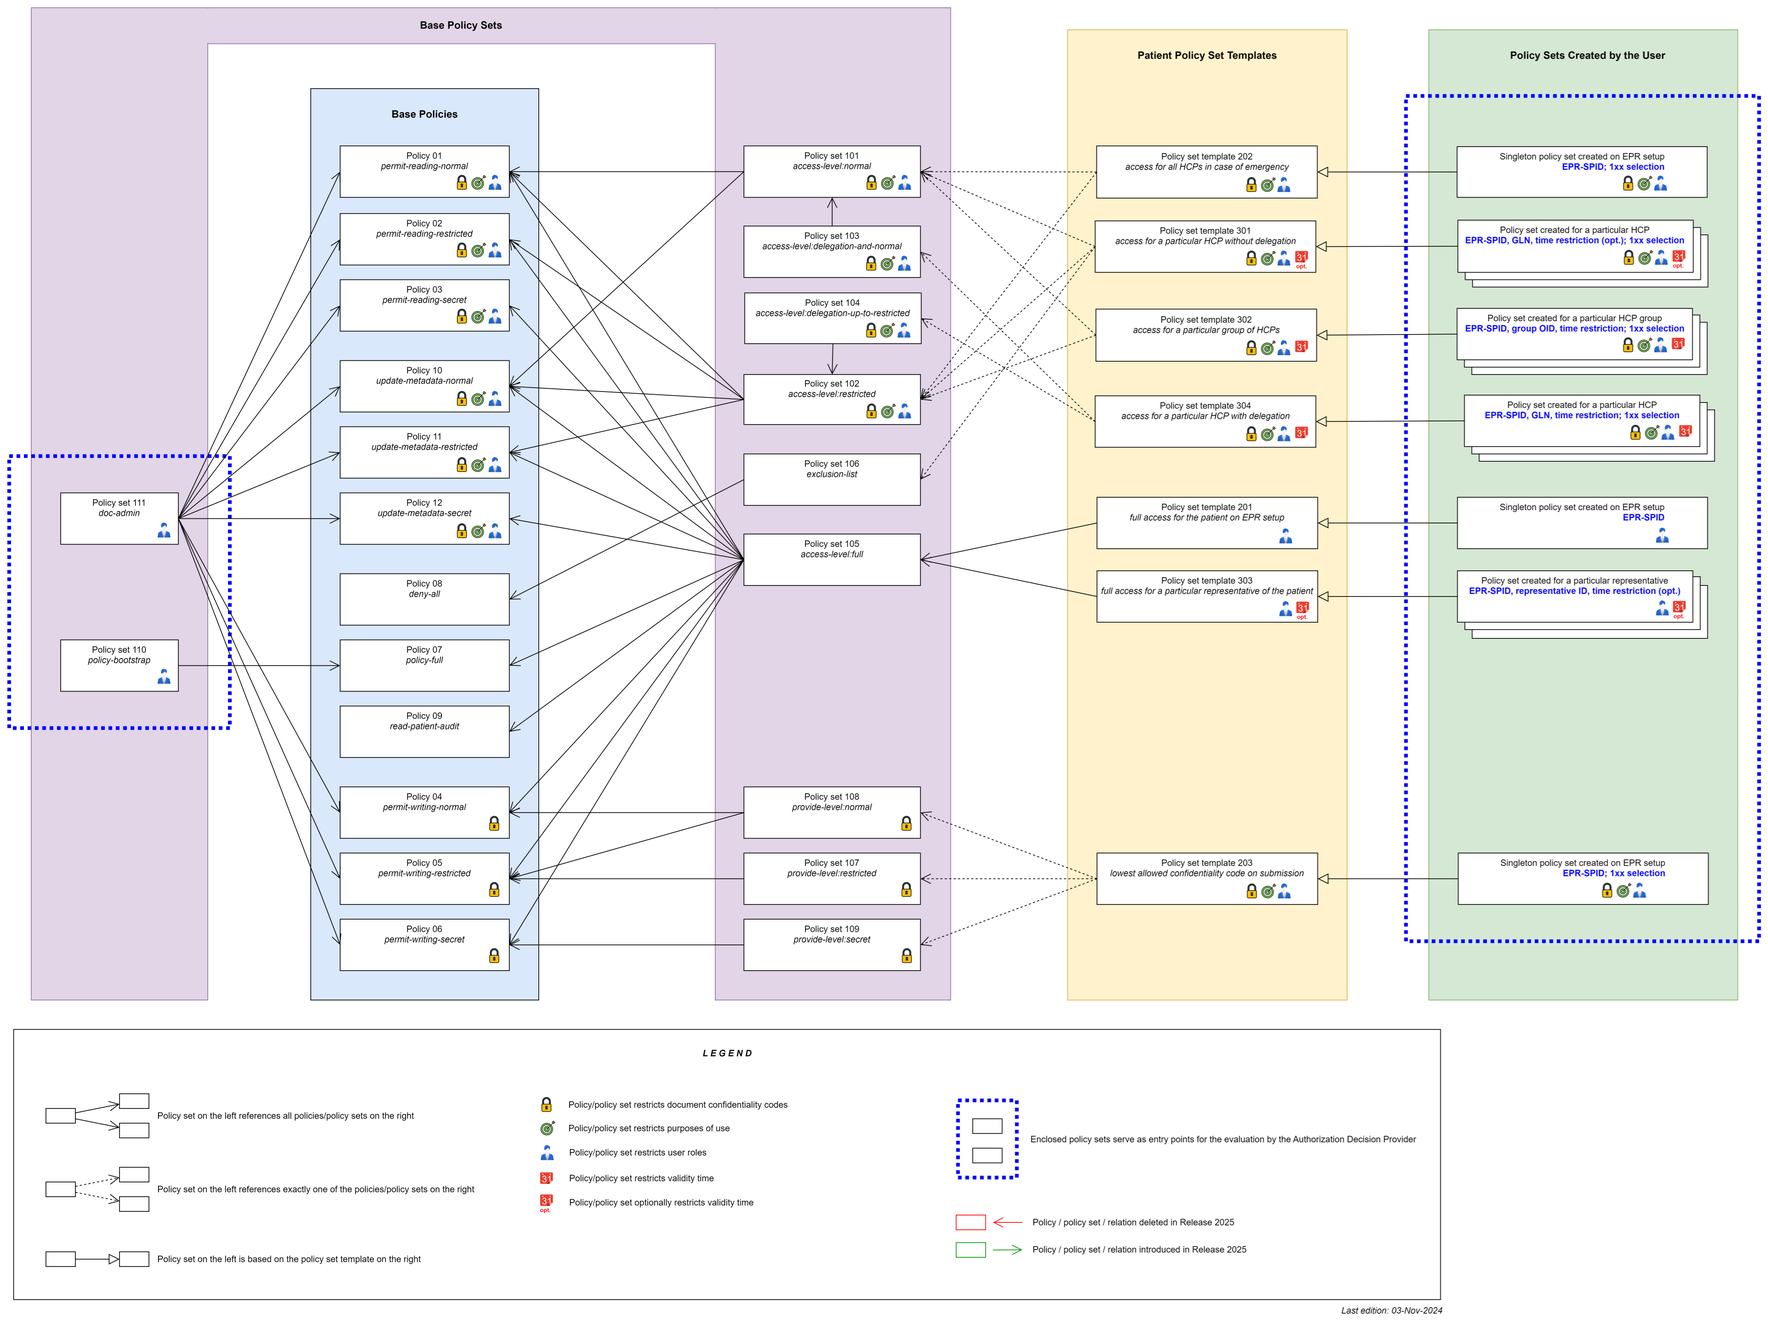
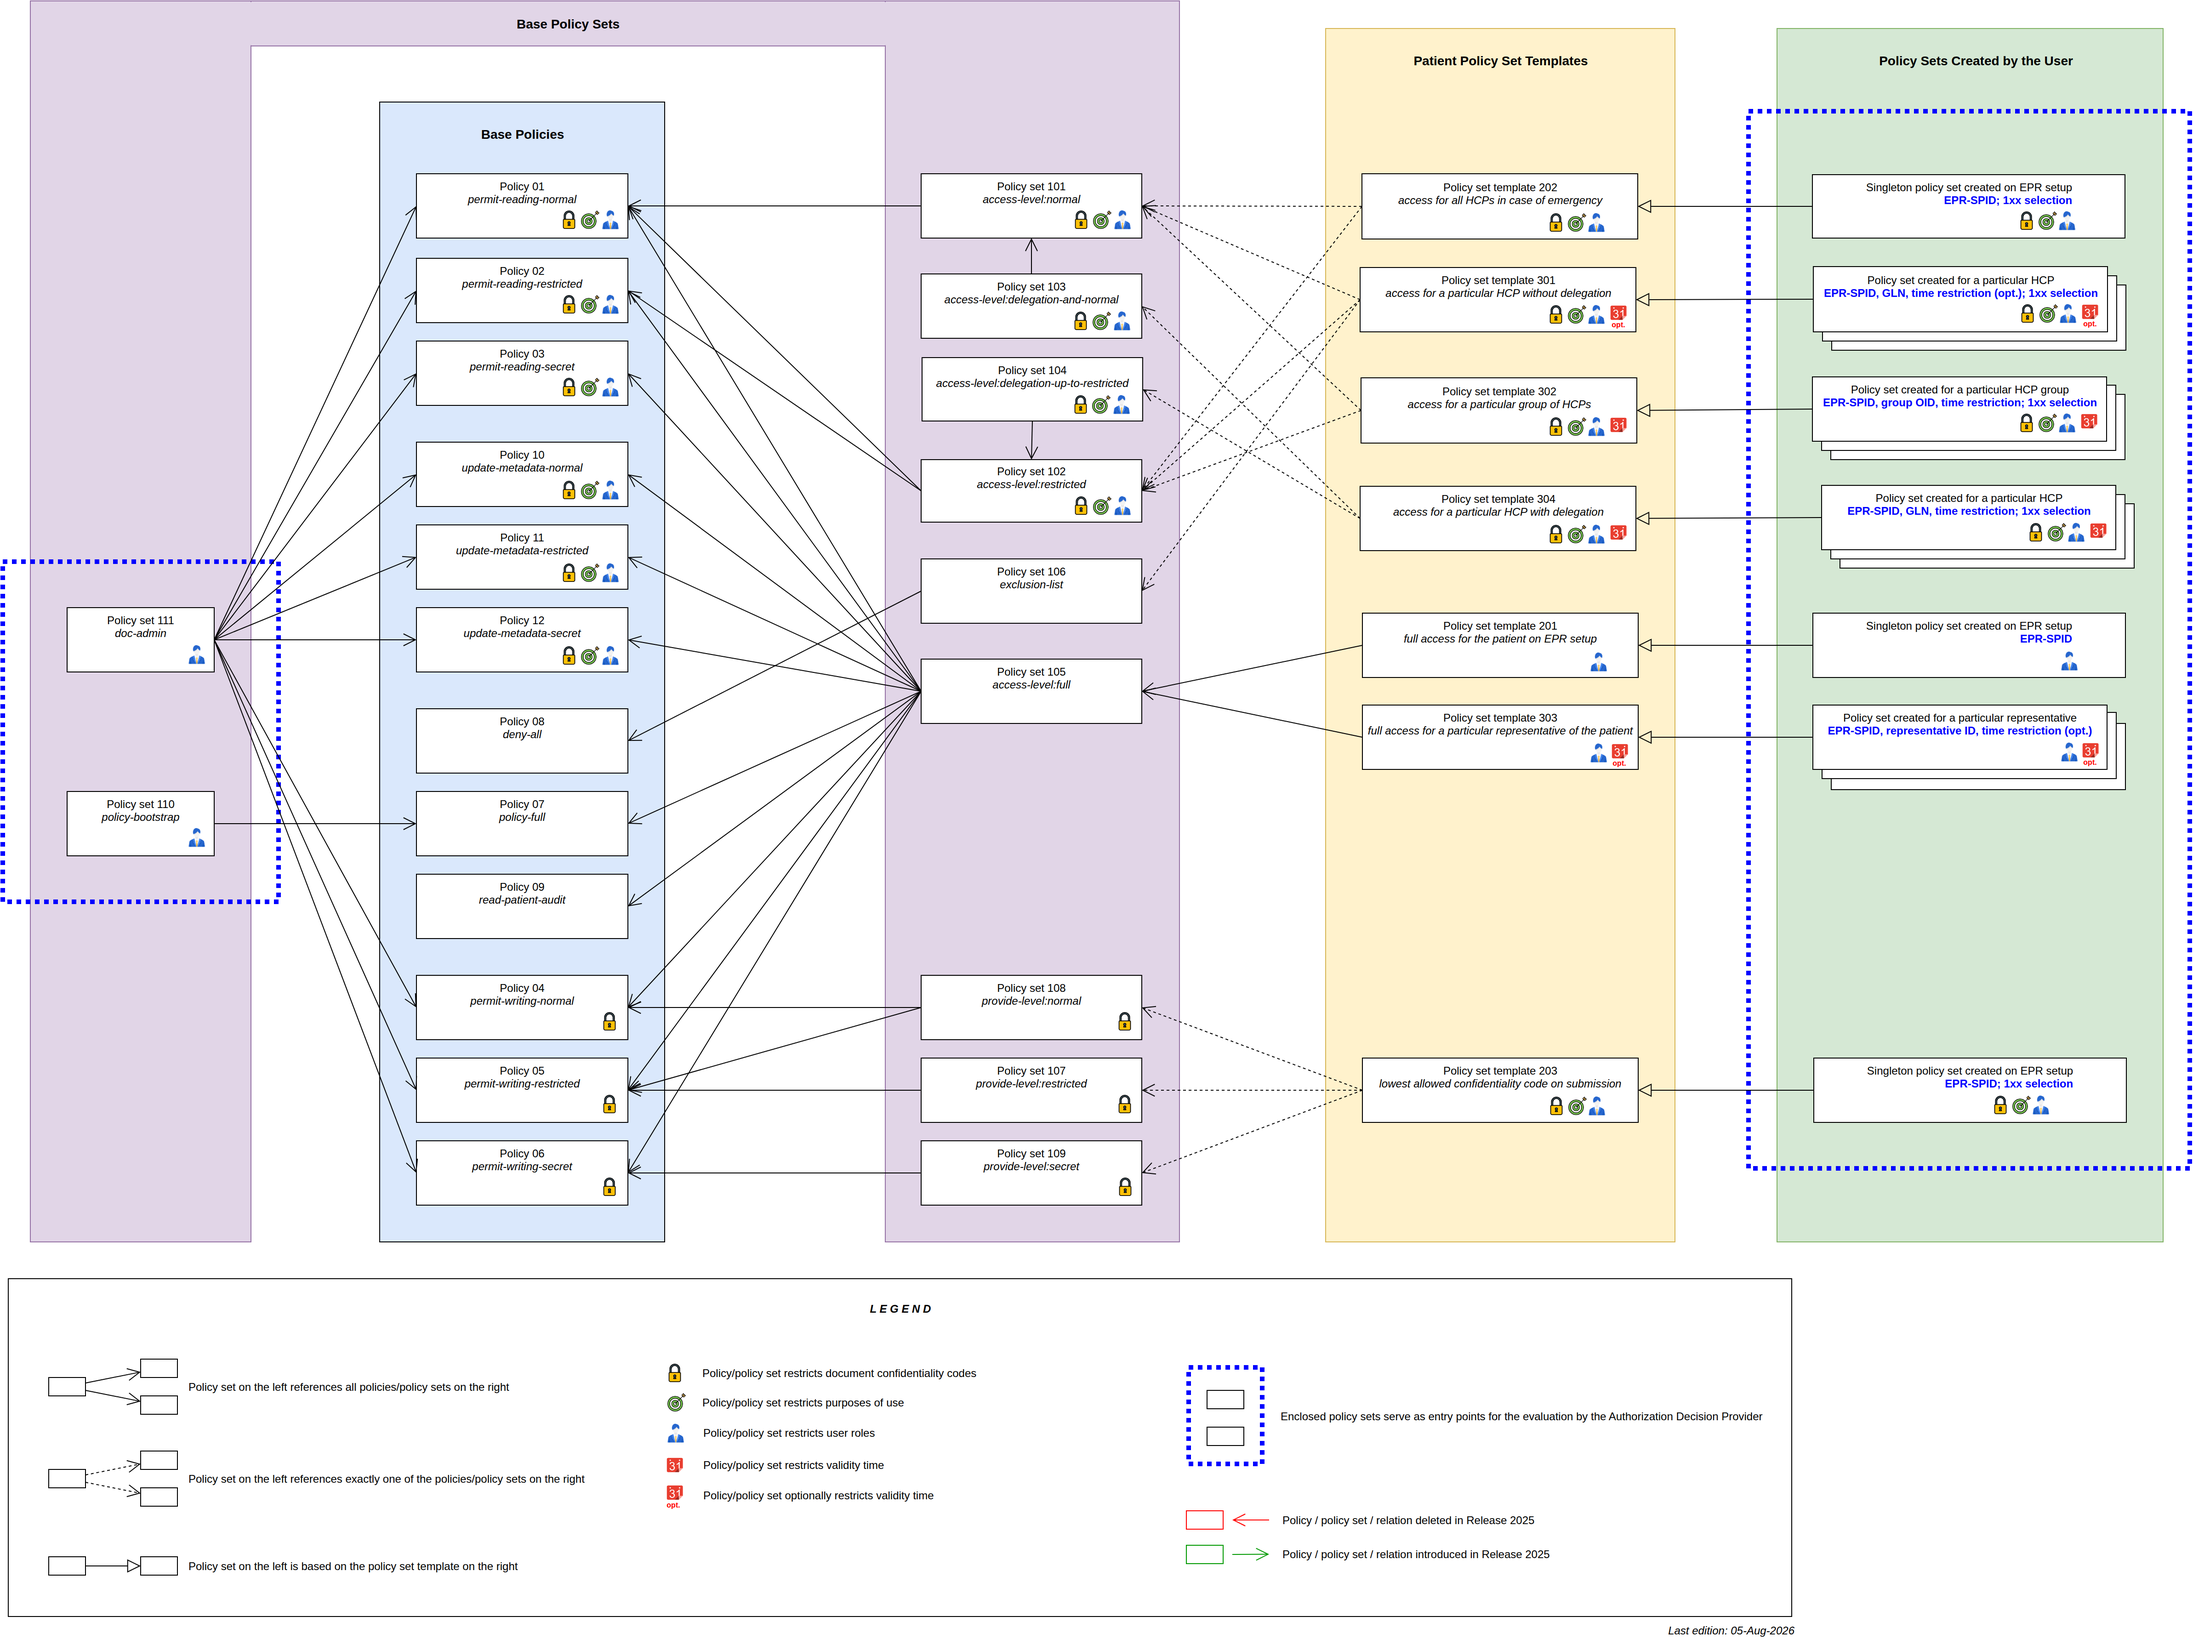
EHSEPDBEP-314: align docs with removal of metadata update for HCPs
2_Relations.md: policy set 101 now references only 01, policy set 102 only 01 and 02; effect texts of 101-104 no longer mention metadata update. policies.drawio: removed edges 101->10, 102->10 and 102->11, updated last-edition date. policies.png: re-exported from the updated drawio file.

diff --git a/docs/2_Relations.md b/docs/2_Relations.md
@@ -141,9 +141,8 @@ Notes:
 
 - File name: 101-base-policyset-access-normal.xml
 - Policy ID: `urn:e-health-suisse:2015:policies:access-level:normal`
-- Referenced policies / policy sets: 01, 10
-- Effect of referenced policies / policy sets: Permit to enquire document metadata and contents, and to modify document
-  metadata
+- Referenced policies / policy sets: 01
+- Effect of referenced policies / policy sets: Permit to enquire document metadata and contents
 - Locally defined additional effect: --
 - Allowed document confidentiality code(s): `NORMAL`
 - Allowed purpose(s) of use: `NORM`, `EMER`
@@ -153,9 +152,8 @@ Notes:
 
 - File name: 102-base-policyset-access-restricted.xml
 - Policy ID: `urn:e-health-suisse:2015:policies:access-level:restricted`
-- Referenced policies / policy sets: 01, 02, 10, 11
-- Effect of referenced policies / policy sets: Permit to enquire document metadata and contents, and to modify document
-  metadata
+- Referenced policies / policy sets: 01, 02
+- Effect of referenced policies / policy sets: Permit to enquire document metadata and contents
 - Locally defined additional effect: --
 - Allowed document confidentiality code(s): `NORMAL`, `RESTRICTED`
 - Allowed purpose(s) of use: `NORM`, `EMER`
@@ -166,8 +164,8 @@ Notes:
 - File name: 103-base-policyset-access-normal-with-delegation.xml:
 - Policy ID: `urn:e-health-suisse:2015:policies:access-level:delegation-and-normal`
 - Referenced policies / policy sets: 101
-- Effect of referenced policies / policy sets: Permit to enquire document metadata and contents, to modify document
-  metadata, and to delegate these permissions to other HCPs
+- Effect of referenced policies / policy sets: Permit to enquire document metadata and contents, and to delegate these
+  permissions to other HCPs
 - Locally defined additional effect: Permit to add and modify privacy
   policies granting the permissions defined in 101
 - Allowed document confidentiality code(s): `NORMAL`
@@ -179,8 +177,8 @@ Notes:
 - File name: 104-base-policyset-access-restricted-with-delegation.xml:
 - Policy ID: `urn:e-health-suisse:2015:policies:access-level:delegation-up-to-restricted`
 - Referenced policies / policy sets: 102
-- Effect of referenced policies / policy sets: Permit to enquire document metadata and contents, to modify document
-  metadata, and to delegate these permissions to other HCPs
+- Effect of referenced policies / policy sets: Permit to enquire document metadata and contents, and to delegate these
+  permissions to other HCPs
 - Locally defined additional effect: Permit to add and modify privacy
   policies granting the permissions defined in 102
 - Allowed document confidentiality code(s): `NORMAL`, `RESTRICTED`
